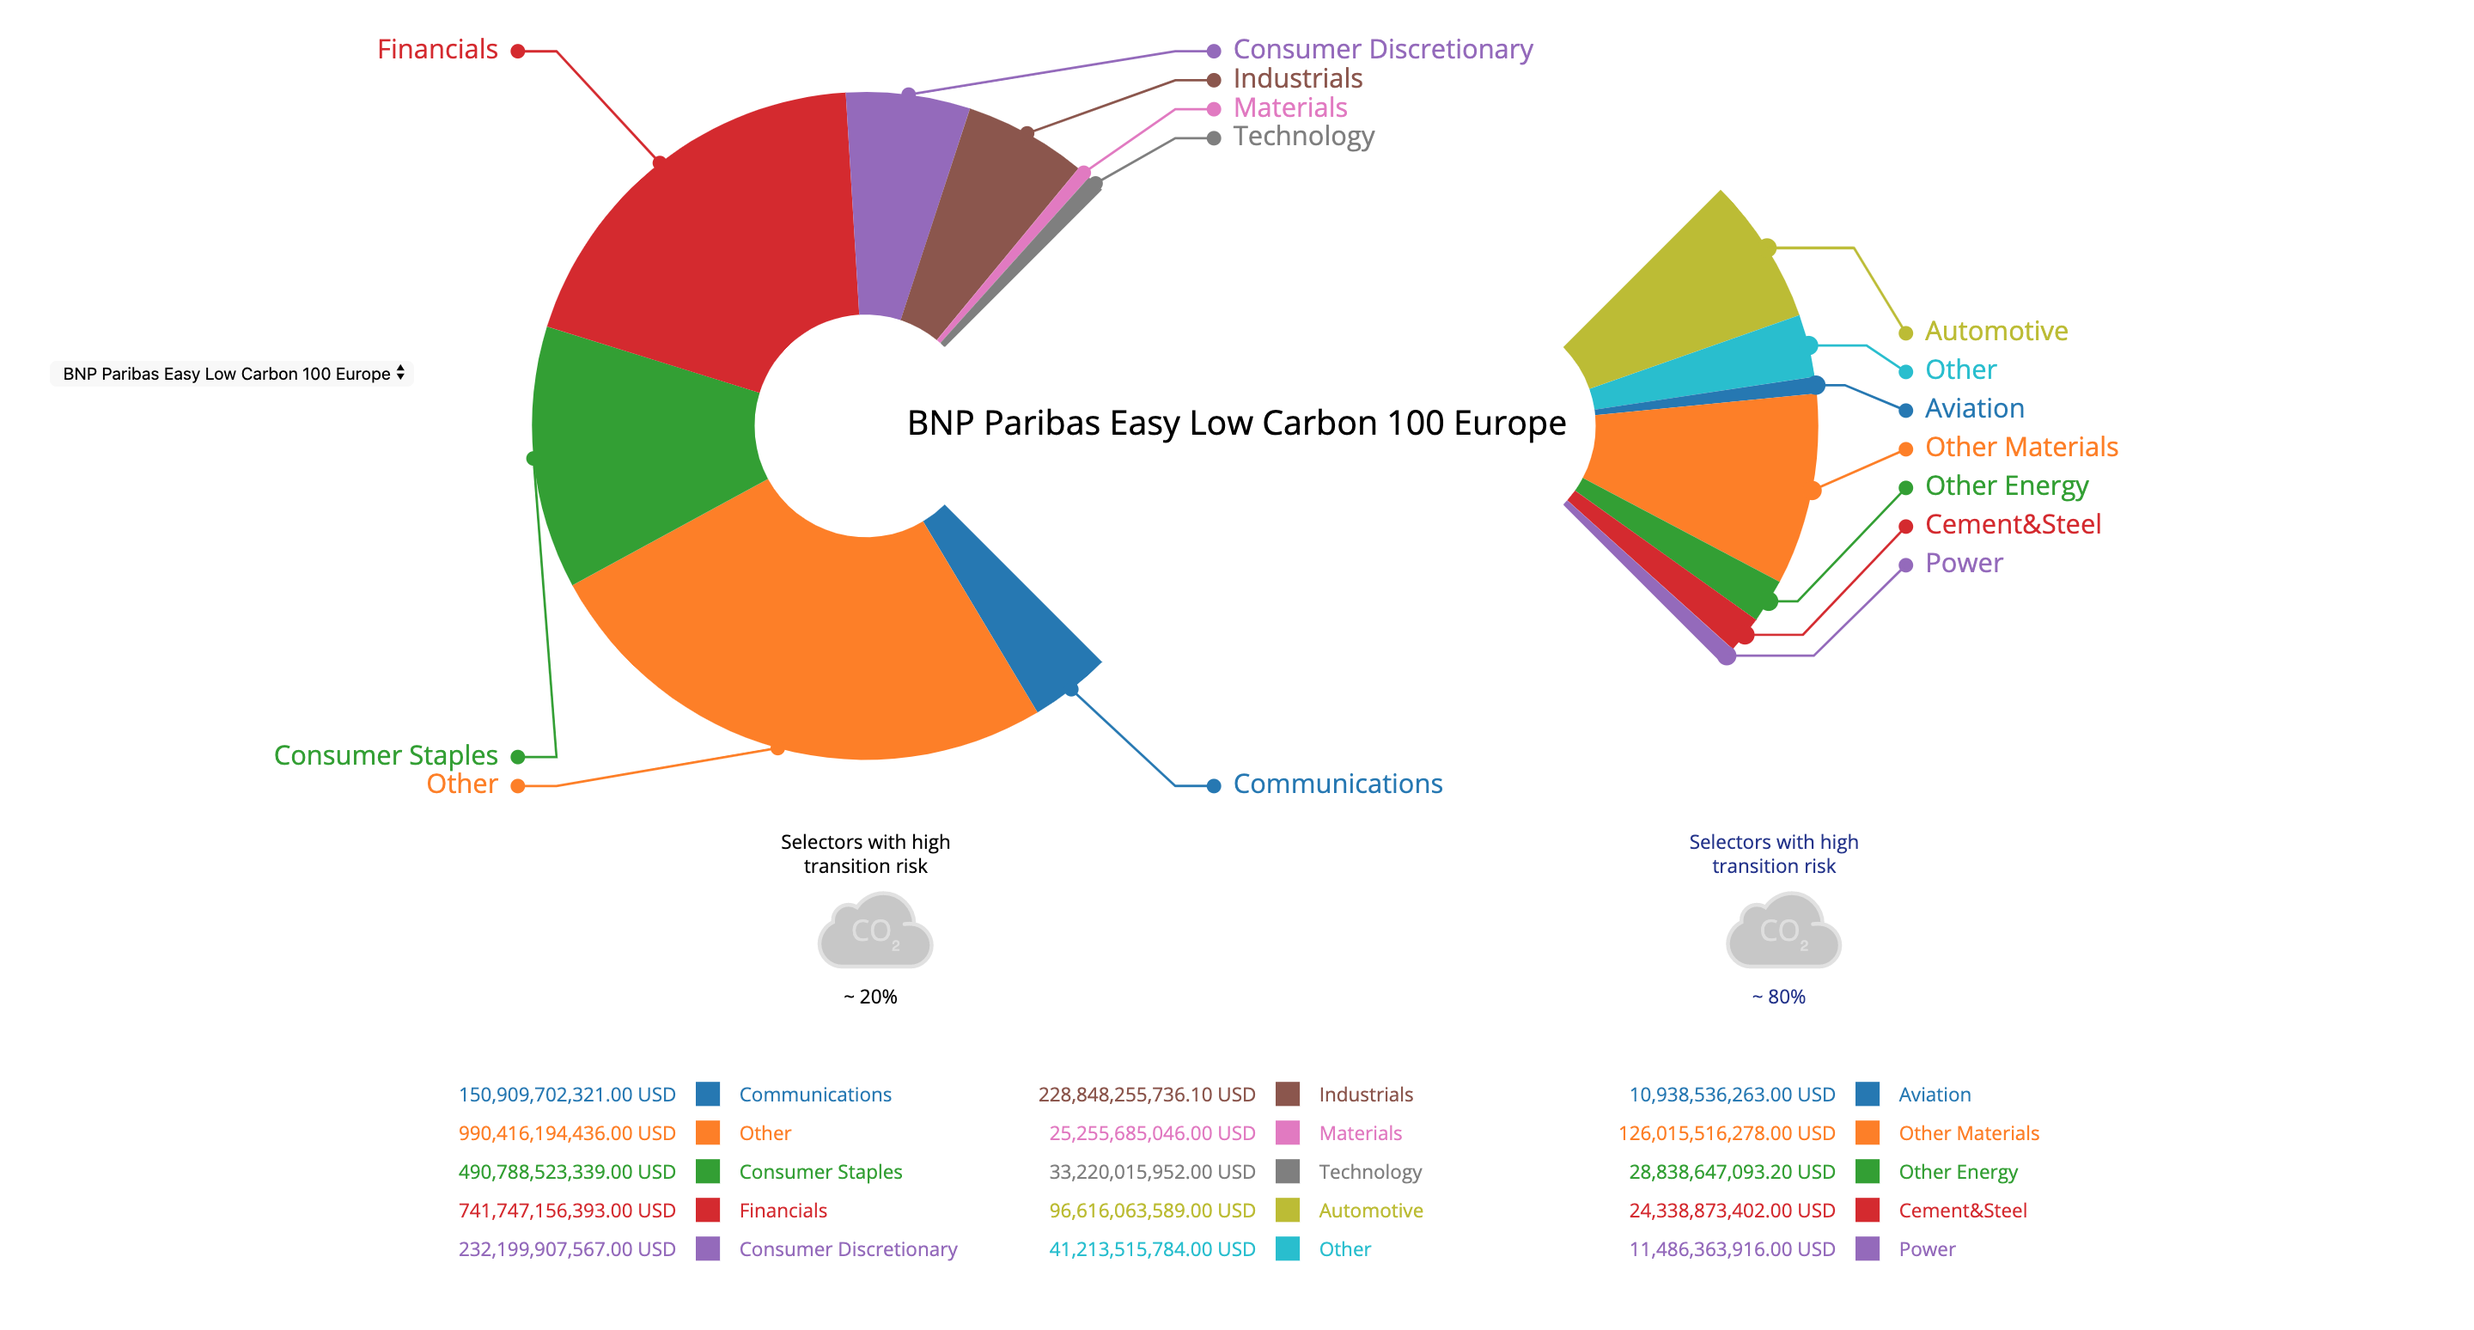
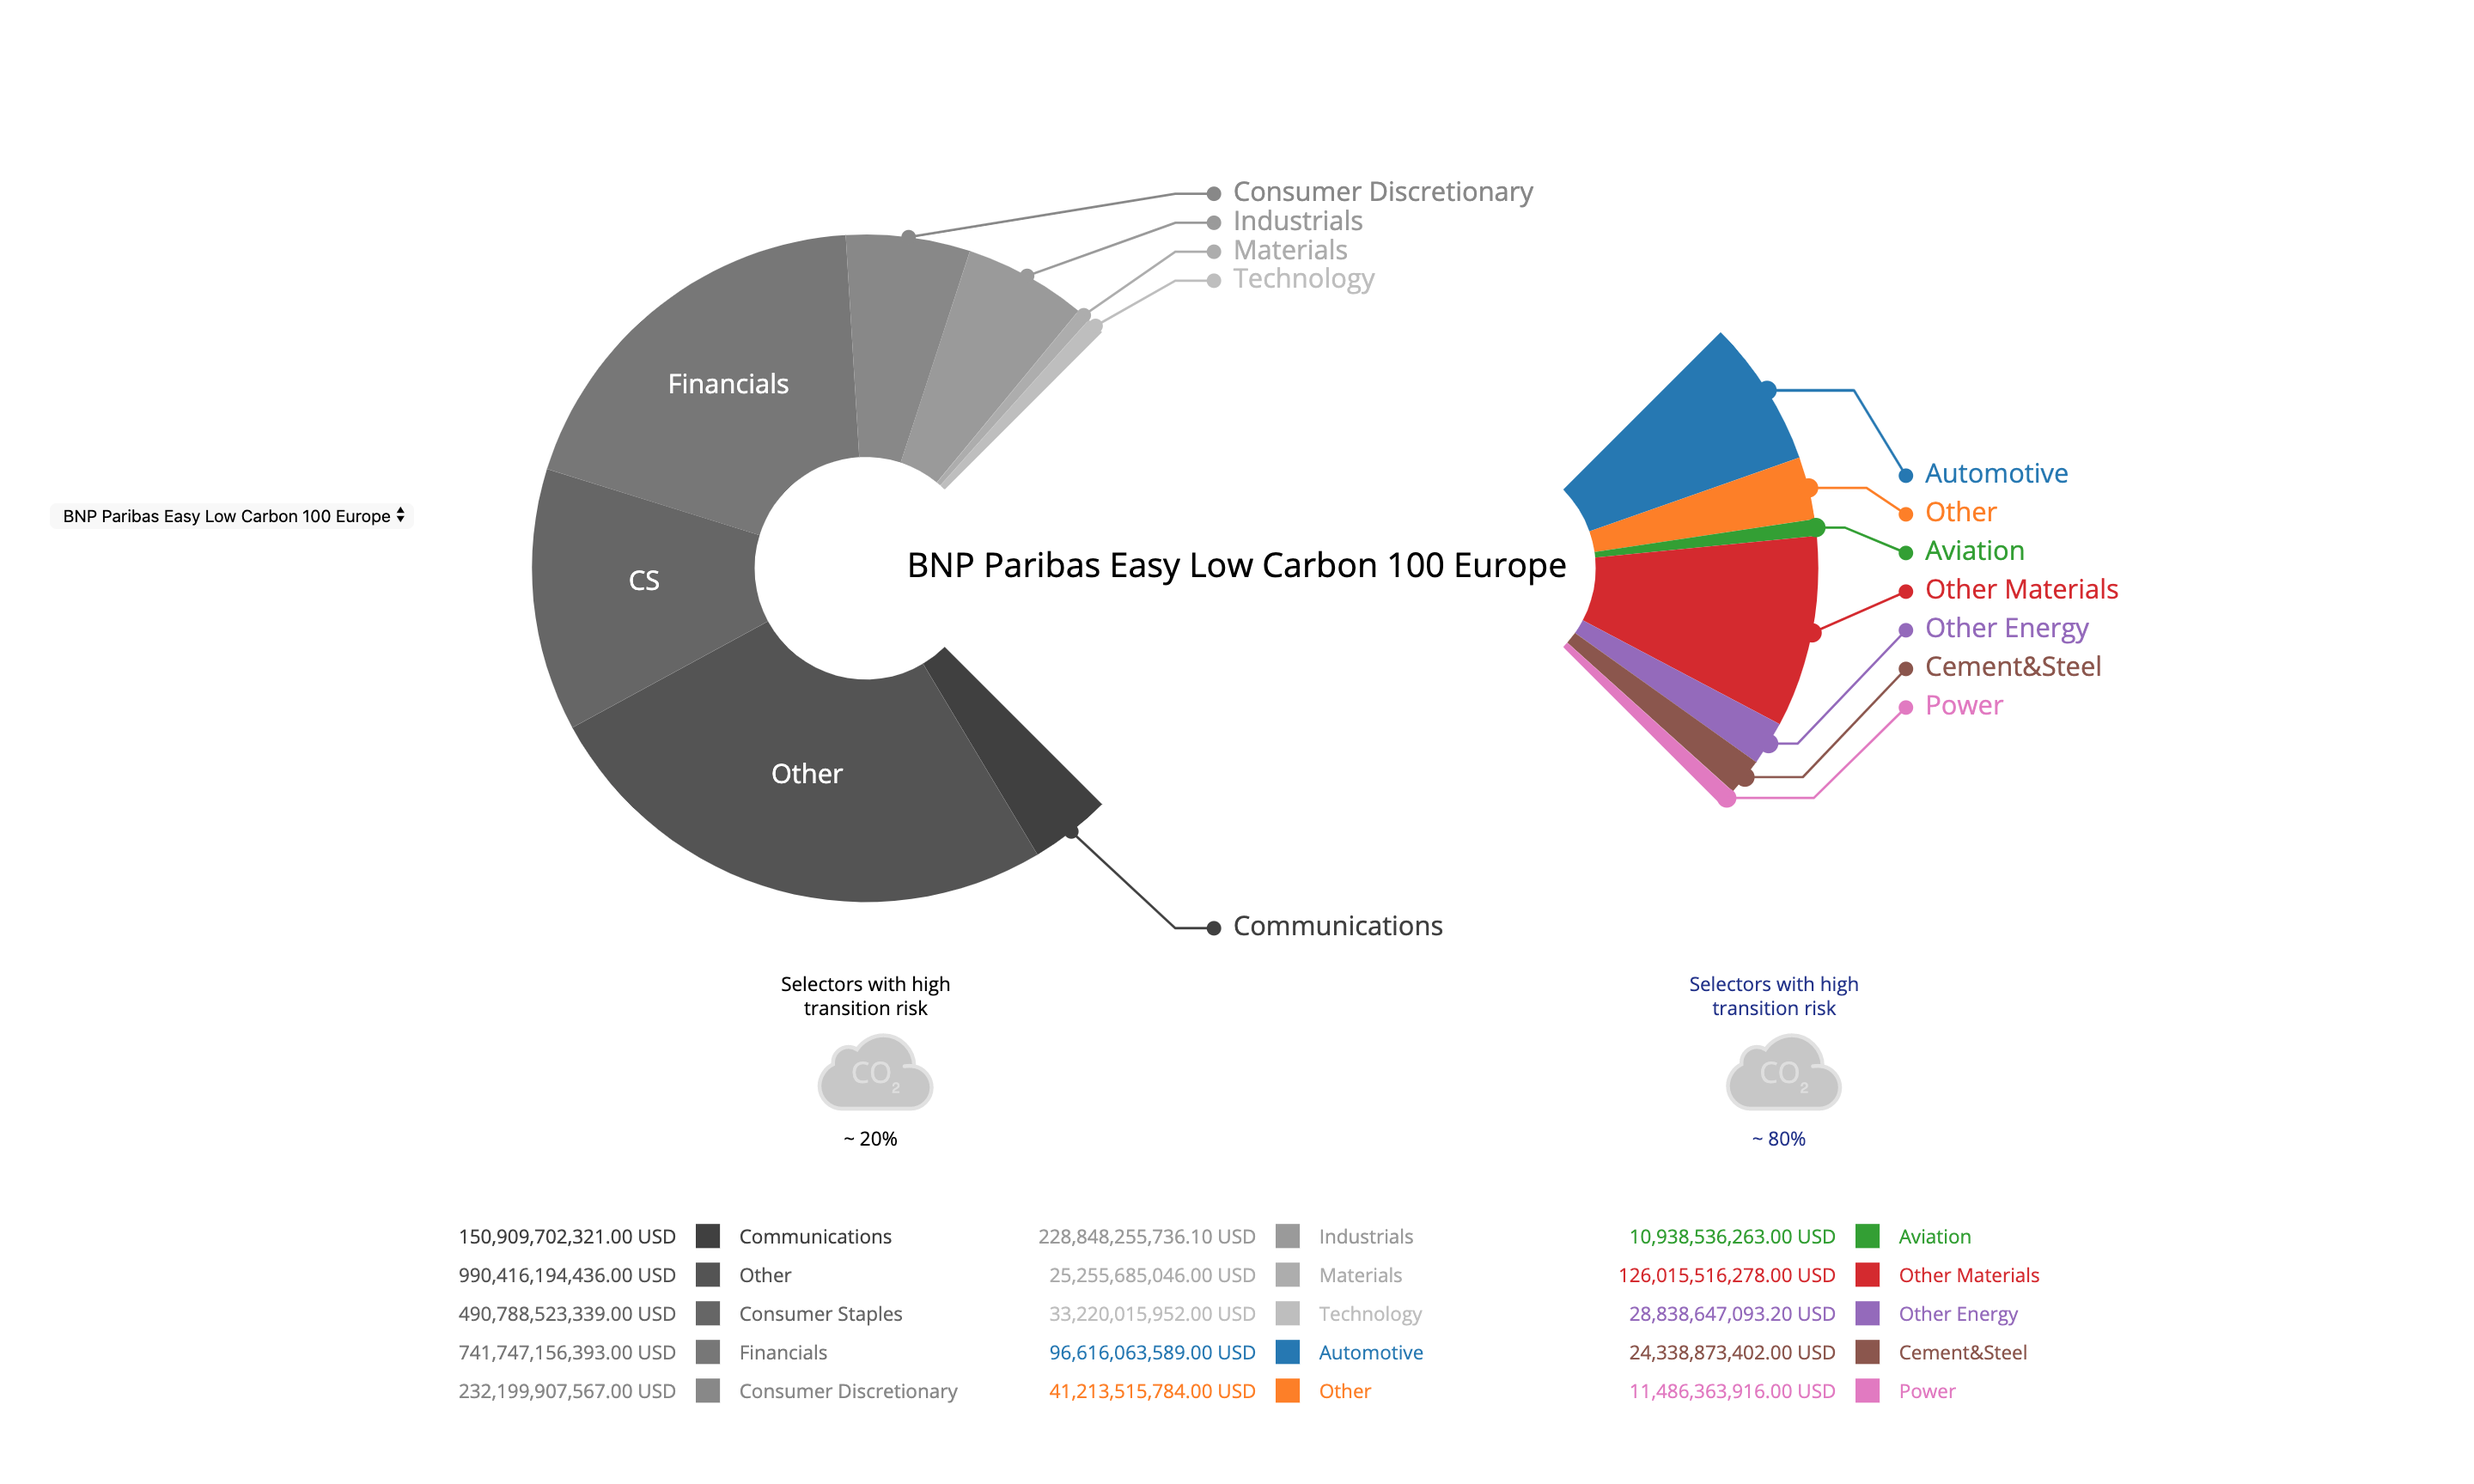
update

diff --git a/d3.proportional.js b/d3.proportional.js
@@ -26,7 +26,8 @@ d3.proportional = function(){
     endAngle = 2 * Math.PI + Math.PI / 2 * 1.5,
     pie = d3.pie().padAngle(0).startAngle(startAngle).endAngle(endAngle).value(function(d_) { return d_.value; }).sort(null),
     arc = d3.arc().innerRadius(innerRadius).outerRadius(outerRadius),
-    colors = d3.scaleOrdinal(d3.schemeCategory20),
+    colorsLeft = d3.scaleSequential(d3.interpolateGreys).domain([0.0, 1.0]),
+    colorsRight = d3.scaleOrdinal(d3.schemeCategory20),
     left = {}
     right = {};
     
@@ -39,11 +40,19 @@ d3.proportional = function(){
         return proportional;
 
     };
+    
+    proportional.colorsLeft = function (_) {
 
-    proportional.colors = function (_) {
+        if (!arguments.length) return colorsLeft;
+        colorsLeft = _;
+        return proportional;
 
-        if (!arguments.length) return colors;
-        colors = _;
+    };
+    
+    proportional.colorsRight = function (_) {
+
+        if (!arguments.length) return colorsRight;
+        colorsRight = _;
         return proportional;
 
     };
@@ -185,12 +194,15 @@ d3.proportional = function(){
         left.donut.segments.forEach(function(d_, i_){ 
         
             d_.id = i_;
-            d_.color = colors(d_.id); 
+            d_.color = colorsLeft(0.3 + 0.5 - 0.5 / left.donut.segments.length * i_);
             
                 var dx = 0, dy = 0, direction = -1, align = "start", path;
 
                 var median = d_.startAngle + (d_.endAngle - d_.startAngle) / 2.0;
+                d_.data.theta = Math.abs(d_.endAngle - d_.startAngle);
             
+                if(d_.data.theta < 0.5){
+                    
                 //bottom right
                 if(median < Math.PI){
 
@@ -278,6 +290,59 @@ d3.proportional = function(){
                     color: d_.color
                     
                 });
+                    
+                }
+                else{
+                    
+                    var dr = innerRadius + (outerRadius - innerRadius) / 2;
+                    dy = dr * Math.sin(-Math.PI / 2.0 + median);
+                    dx = dr * Math.cos(-Math.PI / 2.0 + median);
+                    align = "middle";
+
+                    d_.data.dx = dx;
+
+                    path = "";
+
+                    left.donut.dots.push({
+
+                        parent: d_.id,
+                        cx: 0,
+                        cy: 0,
+                        r: 0,
+                        color: d_.color
+
+                    });
+
+                    left.donut.dots.push({
+
+                        parent: d_.id,
+                        cx: 0,
+                        cy: 0,
+                        r: 0,
+                        color: d_.color
+
+                    });
+
+                    left.donut.labels.push({
+
+                        parent: null,
+                        name: d_.data.name.split(" ").length > 1 ? makeAbbreviation(d_.data.name) : d_.data.name,
+                        align: align,
+                        dx: dx,
+                        dy: dy,
+                        color: "#FFFFFF"
+
+                    });
+
+                    left.donut.guiders.push({
+
+                        parent: d_.id,
+                        path: path,
+                        color: d_.color
+
+                    });
+                    
+                }
 
         });
 
@@ -296,7 +361,7 @@ d3.proportional = function(){
         right.donut.segments.forEach(function(d_, i_){ 
             
             d_.id = left.donut.segments.length + i_;
-            d_.color = colors(d_.id); 
+            d_.color = colorsRight(d_.id - left.donut.segments.length); 
             
             var dx = 0, dy = 0, direction = 1, align = "start", path, half;
           

diff --git a/index.html b/index.html
@@ -4,9 +4,11 @@
     <meta charset="utf-8">
     <title>Proporitonal Donut Chart With Side Highlight</title>
     <script src="http://d3js.org/d3.v4.min.js"></script>
+    <script src="//d3js.org/d3-scale-chromatic.v0.3.min.js"></script>
     <link rel="stylesheet" href="styles.css" charset="utf-8">
       
     <script src="d3.proportional.js"></script>
+    
   
   </head>
   <body>
@@ -2461,6 +2463,7 @@
         format: d3.format(",.2f"), 
         startAngle:  Math.PI / 2.0 * 1.5,
         endAngle: 2.0 * Math.PI + Math.PI / 2.0 * 1.5,
+        grayscale: d3.scaleSequential(d3.interpolateGreys).domain([0.0, 1.0]),
         colors: d3.scaleOrdinal(d3.schemeCategory10),
         aliases: [ { name: "#N/A", alias: "Other" }, { name: "Other #N/A", alias: "Other" } ],
         legendPositionY: 0.7,
@@ -2527,7 +2530,8 @@
             .size([parameters.width, parameters.height * 0.65])
             .leftOffset(0.35)
             .rightOffset(0.60)
-            .colors(parameters.colors)
+            .colorsLeft(parameters.grayscale)
+            .colorsRight(parameters.colors)
             .startAngle(parameters.startAngle)
             .endAngle(parameters.endAngle)
             .labelOffset(1.1)
@@ -2748,6 +2752,12 @@
         var out = name_;
         parameters.aliases.forEach(function(d_){ if(d_.name == name_){ out = d_.alias; } })
         return out;
+        
+    }
+      
+    function makeAbbreviation(name_){
+      
+        return name_.replace( /[^A-Z&]/g, '' );
         
     }
       
